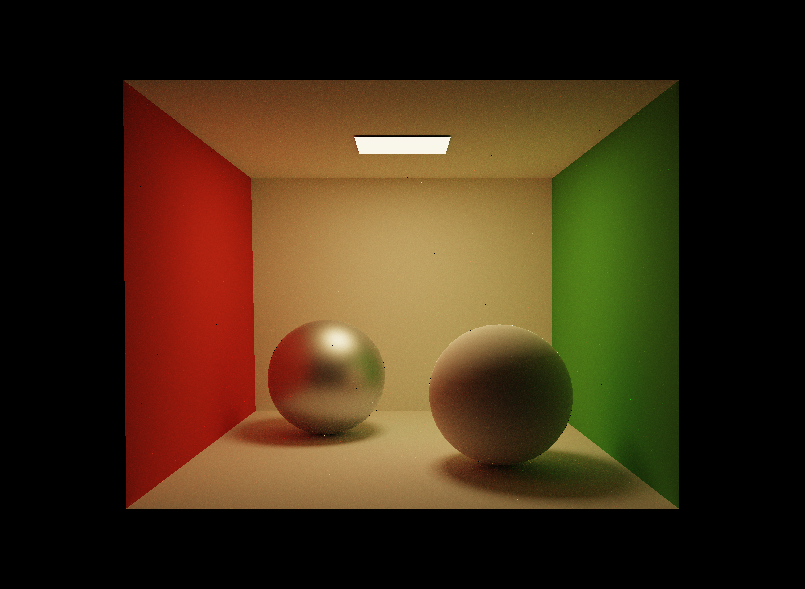
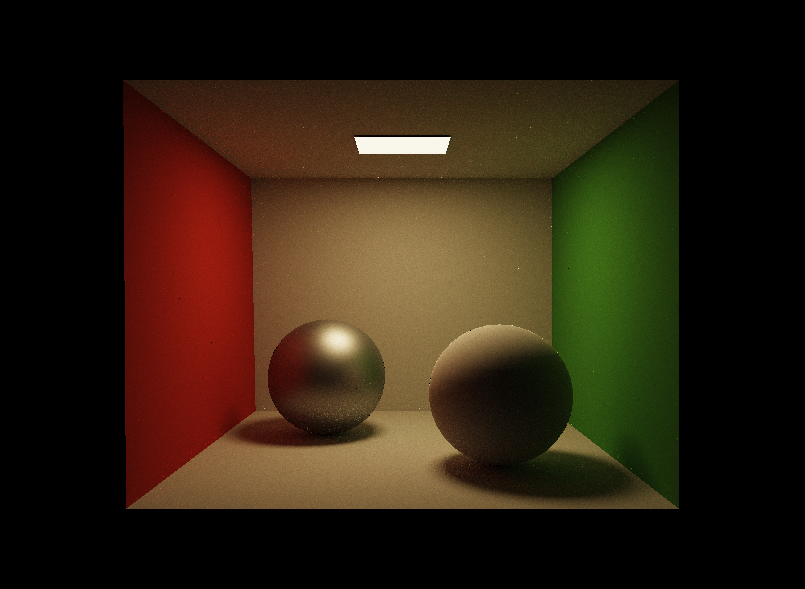
Naive bidirectional tracer is now unbiased.

diff --git a/src/pathtracer.cpp b/src/pathtracer.cpp
@@ -63,7 +63,6 @@ e8::normal_pathtracer::sample(e8util::rng&, std::vector<e8util::ray> const& rays
         return rad;
 }
 
-
 e8::direct_pathtracer::direct_pathtracer()
 {
 }
@@ -98,11 +97,8 @@ e8::direct_pathtracer::sample_direct_illum(e8util::rng& rng,
                 float distance = l.norm();
                 e8util::vec3 const& i = -l/distance;
 
-                float cos_w = i.inner(info.normal);
-                if (cos_w < 0)
-                        continue;
-
                 // evaluate.
+                float cos_w = i.inner(info.normal);
                 e8util::ray light_ray(info.vertex, i);
                 float t;
                 if (!scene->has_intersect(light_ray, 1e-4f, distance - 1e-3f, t))
@@ -157,7 +153,7 @@ e8::unidirect_pathtracer::sample_indirect_illum(e8util::rng& rng,
                 if (rng.draw() >= p_survive)
                         return 0.0;
         } else
-                p_survive = 1.0f;
+                p_survive = 1;
 
         if (depth >= 1)
                 multi_indirect_samps = 1;
@@ -213,7 +209,7 @@ e8::bidirect_pathtracer::~bidirect_pathtracer()
 e8util::vec3
 e8::bidirect_pathtracer::sample_light_illum(e8util::rng& rng,
                                             e8util::vec3 const& rad,
-                                            e8util::vec3 const& w,
+                                            e8util::vec3 const& i,
                                             e8::intersect_info const& poi,
                                             if_scene const* scene,
                                             unsigned depth,
@@ -226,21 +222,21 @@ e8::bidirect_pathtracer::sample_light_illum(e8util::rng& rng,
                 if (rng.draw() >= p_survive) {
                         // stop.
                         terminate = poi;
-                        t = w;
-                        return rad/(1.0f - p_survive);
+                        t = i;
+                        return rad/(1 - p_survive);
                 }
         } else
-                p_survive = 1.0f;
+                p_survive = 1;
 
         float mat_pdf;
-        e8util::vec3 const& i = poi.mat->sample(rng, poi.normal, w, mat_pdf);
-        e8util::ray l(poi.vertex, i);
+        e8util::vec3 const& o = poi.mat->sample(rng, poi.normal, i, mat_pdf);
+        e8util::ray l(poi.vertex, o);
         e8::intersect_info const& linfo = scene->intersect(l);
         if (linfo.valid) {
-                e8util::vec3 const& brdf = poi.mat->eval(poi.normal, w, i);
+                e8util::vec3 const& brdf = poi.mat->eval(poi.normal, o, i);
                 float cos_w = poi.normal.inner(i);
                 e8util::vec3 const& r = rad*brdf*cos_w/mat_pdf/p_survive;
-                return sample_light_illum(rng, r, -i, linfo, scene, depth + 1, terminate, t);
+                return sample_light_illum(rng, r, -o, linfo, scene, depth + 1, terminate, t);
         } else {
                 return 0.0f;
         }
@@ -250,18 +246,17 @@ e8util::vec3
 e8::bidirect_pathtracer::join_with_light_paths(e8util::rng& rng,
                                                e8util::vec3 const& o,
                                                e8::intersect_info const& poi,
-                                               if_scene const* scene) const
+                                               if_scene const* scene,
+                                               unsigned prev_depth) const
 {
-        // sample light.
-        float light_pdf;
-        if_light const* light = scene->sample_light(rng, light_pdf);
-
         float p_survive = 0.5f;
         if (rng.draw() >= p_survive) {
-                // stop.
-                return sample_direct_illum(rng, o, poi, scene, 1)/(1.0f - p_survive);
+                // special case, stop.
+                return prev_depth == 0 ? sample_direct_illum(rng, o, poi, scene, 1)/(1 - p_survive) : 0.5f*sample_direct_illum(rng, o, poi, scene, 1)/(1 - p_survive);
         } else {
-                float source_pdf;
+                // sample light.
+                float light_pdf, source_pdf;
+                if_light const* light = scene->sample_light(rng, light_pdf);
                 e8util::vec3 p, n, w;
                 light->sample(rng, source_pdf, p, n, w);
                 e8util::ray light_path(p, w);
@@ -272,26 +267,27 @@ e8::bidirect_pathtracer::join_with_light_paths(e8util::rng& rng,
                 // construct light path.
                 e8util::vec3 const& l = light_info.vertex - p;
                 e8util::vec3 const& illum = light->eval(l, n)/(light_pdf*source_pdf);
-                e8::intersect_info terminate;
-                e8util::vec3 tray;
-                e8util::vec3 const& light_illum = sample_light_illum(rng, illum, -w, light_info, scene, 0, terminate, tray)/p_survive;
-                if (light_illum == 0.0f)
-                        return 0.0f;
 
-                // evaluate.
+                e8::intersect_info terminate = light_info;
+                e8util::vec3 tray = -w;
+                e8util::vec3 const& light_illum = illum;
+
+                // evaluate the area integral.
                 e8util::vec3 join_path = poi.vertex - terminate.vertex;
                 float distance = join_path.norm();
                 join_path = join_path/distance;
                 e8util::ray join_ray(terminate.vertex, join_path);
+                float cos_w2 = terminate.normal.inner(tray);
+                float cos_wo = terminate.normal.inner(join_path);
+                float cos_wi = poi.normal.inner(-join_path);
                 float t;
-                if (!scene->has_intersect(join_ray, 1e-4f, distance - 1e-3f, t)) {
-                        float cos_w = terminate.normal.inner(join_path);
-                        float cos_w2 = o.inner(-join_path);
-                        if (cos_w < 0 || cos_w2 < 0)
-                                return 0.0f;
-                        e8util::vec3 f2 = light_illum*terminate.mat->eval(terminate.normal, join_path, tray)*cos_w;
-                        e8util::vec3 f1 = poi.mat->eval(poi.normal, o, -join_path)*cos_w2;
-                        return f1*f2;
+                if (cos_wo >= 0.0f &&
+                                cos_wi >= 0.0f &&
+                                cos_w2 >= 0.0f &&
+                                !scene->has_intersect(join_ray, 1e-4f, distance - 1e-3f, t)) {
+                        e8util::vec3 f2 = light_illum*terminate.mat->eval(terminate.normal, join_path, tray)*cos_w2;
+                        e8util::vec3 f1 = f2*cos_wo/(distance*distance)*poi.mat->eval(poi.normal, o, -join_path)*cos_wi;
+                        return 0.5f*f1/p_survive;
                 } else
                         return 0.0f;
         }
@@ -309,10 +305,11 @@ e8::bidirect_pathtracer::sample_indirect_illum(e8util::rng& rng,
         if (depth >= mutate_depth) {
                 if (rng.draw() >= p_survive) {
                         // Mutate and trace from the other direction.
-                        return join_with_light_paths(rng, o, info, scene)/(1.0f - p_survive);
+                        return join_with_light_paths(rng, o, info, scene, depth)/(1 - p_survive);
+                        //return sample_direct_illum(rng, o, info, scene, 1)/(1 - p_survive);
                 }
         } else
-                p_survive = 1.0f;
+                p_survive = 1;
 
         // indirect.
         float mat_pdf;
@@ -322,7 +319,7 @@ e8::bidirect_pathtracer::sample_indirect_illum(e8util::rng& rng,
                 e8util::vec3 const& indirect = sample_indirect_illum(rng, -i, indirect_info, scene, depth + 1);
                 e8util::vec3 const& brdf = info.mat->eval(info.normal, o, i);
                 float cos_w = info.normal.inner(i);
-                if (cos_w < 0)
+                if (cos_w < 0.0f)
                         return 0.0f;
                 e8util::vec3 r = indirect*brdf*cos_w/mat_pdf/p_survive;
                 return r;

diff --git a/src/pathtracer.h b/src/pathtracer.h
@@ -102,8 +102,11 @@ protected:
                                                            unsigned depth,
                                                            e8::intersect_info& terminate,
                                                            e8util::vec3& t) const;
-        e8util::vec3                    join_with_light_paths(e8util::rng& rng, e8util::vec3 const& o, e8::intersect_info const& info,
-                                                              if_scene const* scene) const;
+        e8util::vec3                    join_with_light_paths(e8util::rng& rng,
+                                                              e8util::vec3 const& o,
+                                                              e8::intersect_info const& info,
+                                                              if_scene const* scene,
+                                                              unsigned prev_depth) const;
         e8util::vec3                    sample_indirect_illum(e8util::rng& rng,
                                                               e8util::vec3 const& o,
                                                               e8::intersect_info const& info,

diff --git a/test/testunidirectrenderer.cpp b/test/testunidirectrenderer.cpp
@@ -34,10 +34,9 @@ test::test_unidirect_renderer::run() const
         scene.update();
 
         e8::img_file_frame img("test_unidirect.png", width, height);
-        e8::aces_compositor com(width, height);
-        com.enable_auto_exposure(false);
-        com.exposure(1.0f);
-        r.render(&scene, cam, &com);
+        e8::clamp_compositor com(width, height);
+        for (unsigned i = 0; i < 40; i ++)
+                r.render(&scene, cam, &com);
 
         com.commit(&img);
         img.commit();

diff --git a/README.md b/README.md
@@ -1,5 +1,10 @@
 # e8yescg
 A simple 3D renderer for visualizing other simulation projects.
 
-![Alt text](gallery/image2.png?raw=true "Direct Lighting")
-![Alt text](gallery/image.png?raw=true "Direct Lighting")
+## Unidirectional tracer 
+### with k light samples
+![Alt text](gallery/image.png?raw=true "Unidirectional tracer (direct lighting)")
+![Alt text](gallery/image2.png?raw=true "Unidirectional tracer (direct lighting)")
+
+## Bidirectional tracer
+![Alt text](gallery/image3.png?raw=true "Bidirectional tracer")
